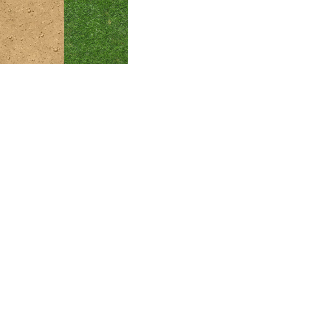
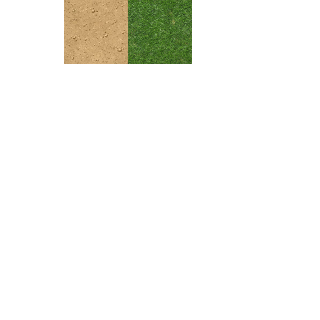
@pkg/isometric-renderer: pass tile map parameters using instanced VBOs instead overflowing Vec2 Uniforms

Changed region(s): [[0.0, 0.0, 0.625, 0.2188]]

diff --git a/src/packages/isometric-renderer/src/FGL/predefined/meshes/createTileTerrain.js b/src/packages/isometric-renderer/src/FGL/predefined/meshes/createTileTerrain.js
@@ -1,4 +1,5 @@
 import * as R from 'ramda';
+import {createVertexBuffer} from '../../buffer/types';
 
 export const createTexAtlasMaterial = fgl => fgl.material.shader(
   {
@@ -7,19 +8,22 @@ export const createTexAtlasMaterial = fgl => fgl.material.shader(
         in vec4 inVertexPos;
         in vec2 inUVPos;
 
+        // external VBOs
+        in vec2 inPosTileOffset;
+        in vec2 inUvTileOffset;
+
         // to frag shader
         out vec2 vUVPos;
-        flat out int vInstanceID;
+        out vec2 vUVOffset;
 
         uniform mat4 mpMatrix;
-        uniform vec2 posTileOffsets[100];
         uniform vec2 uvTileSize;
 
         void main() {
-          vec2 offset = uvTileSize * posTileOffsets[gl_InstanceID];
-          gl_Position = (inVertexPos + vec4(offset, 0, 0)) * mpMatrix;
+          vec2 offset = uvTileSize * inPosTileOffset;
 
-          vInstanceID = gl_InstanceID;
+          gl_Position = (inVertexPos + vec4(offset, 0, 0)) * mpMatrix;
+          vUVOffset = inUvTileOffset;
           vUVPos = inUVPos;
         }
       `,
@@ -27,17 +31,16 @@ export const createTexAtlasMaterial = fgl => fgl.material.shader(
       fragment: `
         out vec4 fragColor;
         in vec2 vUVPos;
-        flat in int vInstanceID;
+        in vec2 vUVOffset;
 
         // atlas texture
         uniform sampler2D tex0;
 
         // offsets
         uniform vec2 uvTileSize;
-        uniform vec2 uvTileOffsets[100];
 
         void main() {
-          fragColor = texture(tex0, vUVPos + (uvTileOffsets[vInstanceID] * uvTileSize));
+          fragColor = texture(tex0, vUVPos + (vUVOffset * uvTileSize));
         }
       `,
     },
@@ -59,6 +62,7 @@ export const createTexAtlasMaterial = fgl => fgl.material.shader(
  */
 const createTileTerrain = (fgl) => {
   const material = createTexAtlasMaterial(fgl);
+  const {gl} = fgl.state;
 
   return ({
     texTile,
@@ -78,20 +82,14 @@ const createTileTerrain = (fgl) => {
       [uvSize.w, 0.0],
     ];
 
-    const tileOffsets = R.compose(
-      R.unnest,
-      R.times(
-        index => ([
-          index % size.w,
-          Number.parseInt(index / size.w, 10),
-        ]),
-      ),
+    // used in instancing
+    const uvOffsets = R.pluck('uv')(items);
+    const tileOffsets = R.times(
+      index => ([
+        index % size.w,
+        Number.parseInt(index / size.w, 10),
+      ]),
     )(instances);
-
-    const uvOffsets = R.compose(
-      R.unnest,
-      R.pluck('uv'),
-    )(items);
 
     const mesh = fgl.mesh(
       {
@@ -100,23 +98,30 @@ const createTileTerrain = (fgl) => {
         textures: [
           texTile.texture, // tex0
         ],
+
+        // required mesh buffers
+        uv,
         vertices: R.map(
           R.append(0.0),
           uv,
         ),
-        uv,
+
+        // external attributes / unfiroms
+        buffers: {
+          inPosTileOffset: createVertexBuffer(gl, tileOffsets, gl.STATIC_DRAW, 2, 1),
+          inUvTileOffset: createVertexBuffer(gl, uvOffsets, gl.STATIC_DRAW, 2, 1),
+        },
         uniforms: {
           uvTileSize: [
             uvSize.w,
             uvSize.h,
           ],
-          'posTileOffsets[0]': tileOffsets,
-          'uvTileOffsets[0]': uvOffsets,
         },
       },
     );
 
     return (descriptor) => {
+      // todo: remove destructuring!
       mesh(
         {
           ...descriptor,

diff --git a/src/public/src/ui/GameCanvas.jsx b/src/public/src/ui/GameCanvas.jsx
@@ -25,14 +25,14 @@ const createTerrain = async (f) => {
       texTile,
       size: {
         w: 5,
-        h: 1,
+        h: 5,
       },
       items: [
-        {uv: [0, 0]},
-        {uv: [0, 0]},
-        {uv: [0, 0]},
-        {uv: [0, 0]},
-        {uv: [0, 0]},
+        {uv: [2, 0]}, {uv: [2, 0]}, {uv: [2, 0]}, {uv: [0, 0]}, {uv: [0, 0]},
+        {uv: [0, 0]}, {uv: [1, 0]}, {uv: [0, 0]}, {uv: [0, 0]}, {uv: [0, 0]},
+        {uv: [0, 0]}, {uv: [1, 0]}, {uv: [0, 0]}, {uv: [0, 0]}, {uv: [0, 0]},
+        {uv: [0, 0]}, {uv: [0, 0]}, {uv: [0, 0]}, {uv: [0, 0]}, {uv: [0, 0]},
+        {uv: [0, 0]}, {uv: [0, 0]}, {uv: [0, 0]}, {uv: [0, 0]}, {uv: [0, 0]},
       ],
     },
   );
@@ -71,7 +71,7 @@ const attachEngine = async (virtualResolution, dimensions, canvas) => {
           color: f.colors.DARK_GRAY,
           mpMatrix: mat4.mul(
             mpMatrix,
-            mat4.from.translation([0.0, 0.0, -0.005]),
+            mat4.from.translation([0.0, 0.0, 0.0]),
           ).array,
         },
       },
@@ -82,7 +82,7 @@ const attachEngine = async (virtualResolution, dimensions, canvas) => {
         uniforms: {
           mpMatrix: mat4.mul(
             mpMatrix,
-            mat4.from.translation([0.0, 0.0, -0.005]),
+            mat4.from.translation([0.0, 0.0, 0.0]),
           ).array,
         },
       },
@@ -96,7 +96,7 @@ const attachEngine = async (virtualResolution, dimensions, canvas) => {
             mpMatrix,
             mat4.mul(
               mat4.from.scaling([0.2, 0.2, 0.3]),
-              mat4.from.translation([2.0, 2.0, 0.0]),
+              mat4.from.translation([2.0, 2.0, -0.01]),
             ),
           ).array,
         },
@@ -111,7 +111,7 @@ const attachEngine = async (virtualResolution, dimensions, canvas) => {
             mpMatrix,
             mat4.mul(
               mat4.from.scaling([0.2, 0.2, 0.3]),
-              mat4.from.translation([3, 4, 0.0]),
+              mat4.from.translation([3, 4, -0.01]),
             ),
           ).array,
         },
@@ -128,7 +128,7 @@ const attachEngine = async (virtualResolution, dimensions, canvas) => {
             mpMatrix,
             mat4.mul(
               mat4.from.scaling([0.2, 0.2, 0.3]),
-              mat4.from.translation([3, 2, 0.0]),
+              mat4.from.translation([3, 2, -0.01]),
             ),
           ).array,
         },

diff --git a/src/packages/isometric-renderer/src/FGL/material/types/shader/createShaderMaterial.js b/src/packages/isometric-renderer/src/FGL/material/types/shader/createShaderMaterial.js
@@ -2,6 +2,7 @@ import * as R from 'ramda';
 
 import {TEX_UNIFORM} from '../../../constants/predefinedShaderParams';
 import createShaderMaterialDescriptor from './createShaderMaterialDescriptor';
+import bindBufferAttrib from '../../../buffer/bindBufferAttrib';
 
 /**
  * Maps uniform gl constant to setter
@@ -151,9 +152,28 @@ const createShaderMaterial = (gl, fgl) => {
       }
     };
 
+    /**
+     * Loads attributes object into mesh
+     *
+     * @param {Buffer} attributes
+     */
+    const setMaterialAttributes = (attributes) => {
+      for (const key in attributes) {
+        if (Object.prototype.hasOwnProperty.call(attributes, key)) {
+          const attributeDescription = material.attributes[key];
+          if (!attributeDescription)
+            continue;
+
+          bindBufferAttrib(gl, attributes[key], attributeDescription.loc);
+        }
+      }
+    };
+
     return {
       info: material,
       attach: attachMaterial,
+
+      setAttributes: setMaterialAttributes,
       setUniforms: setMaterialUniforms,
       setTextures: setMaterialTextures,
     };

diff --git a/src/packages/isometric-renderer/src/FGL/mesh/createMesh.js b/src/packages/isometric-renderer/src/FGL/mesh/createMesh.js
@@ -3,7 +3,7 @@ import {
   IN_VERTEX_POS_ATTRIB,
 } from '../constants/predefinedShaderParams';
 
-import attachShaderMaterialParameters from '../material/types/shader/attachShaderMaterialParameters';
+import attachShaderMaterialParameters from './utils/attachShaderMaterialParameters';
 import createMeshDescriptor from './createMeshDescriptor';
 import bindBufferAttrib from '../buffer/bindBufferAttrib';
 
@@ -11,7 +11,7 @@ import bindBufferAttrib from '../buffer/bindBufferAttrib';
  * Creates function that renders mesh based on config
  *
  * @param {WebGLRenderingContext} gl
- * @param {meshDescriptor} meshDescriptor
+ * @param {MeshDescriptor} meshDescriptor
  *
  * @param {Object} dynamicDescriptor
  *
@@ -19,11 +19,9 @@ import bindBufferAttrib from '../buffer/bindBufferAttrib';
  */
 const createMeshRenderer = (gl, meshDescriptor) => {
   const {
-    buffers: {
-      vbo,
-      ibo,
-      uv,
-    },
+    vbo,
+    ibo,
+    uv,
     material,
     renderMode,
   } = meshDescriptor;

diff --git a/src/packages/isometric-renderer/src/FGL/buffer/types/createVertexBuffer.js b/src/packages/isometric-renderer/src/FGL/buffer/types/createVertexBuffer.js
@@ -13,6 +13,7 @@ import createBuffer from '../createBuffer';
  * @param {Array} vertices
  * @param {GLEnum} usage
  * @param {Number} prefferedSingleVertexLength
+ * @param {Number} vertexAttribDivisor
  *
  * @returns {BufferDescriptor}
  */
@@ -21,6 +22,7 @@ const createVertexBuffer = (
   vertices,
   usage = gl.STATIC_DRAW,
   prefferedSingleVertexLength = null,
+  vertexAttribDivisor = null,
 ) => {
   if (!vertices || !vertices.length)
     throw new Error('createVertexBuffer: not vertices provided!');
@@ -37,6 +39,8 @@ const createVertexBuffer = (
   // create buffer
   const data = new Float32Array(R.unnest(vertices));
   return {
+    vertexAttribDivisor,
+
     // used to bind buffer
     // todo: add more basic buffer creator?
     components: {

diff --git a/src/packages/isometric-renderer/src/FGL/mesh/createMeshDescriptor.js b/src/packages/isometric-renderer/src/FGL/mesh/createMeshDescriptor.js
@@ -33,14 +33,12 @@ const createMeshDescriptor = gl => ({
     ...options,
     material,
     renderMode,
-    buffers: removeNullValues(
-      {
-        uv: uv && createVertexBuffer(gl, uv, usage, 2),
-        vbo: vertices && createVertexBuffer(gl, vertices, usage),
-        ibo: indices && createIndexBuffer(gl, indices, usage),
-        ...buffers,
-      },
-    ),
+
+    uv: uv && createVertexBuffer(gl, uv, usage, 2),
+    vbo: vertices && createVertexBuffer(gl, vertices, usage),
+    ibo: indices && createIndexBuffer(gl, indices, usage),
+
+    buffers: removeNullValues(buffers),
   },
 );
 

diff --git a/src/packages/isometric-renderer/src/FGL/index.js b/src/packages/isometric-renderer/src/FGL/index.js
@@ -87,14 +87,14 @@ const createRenderContext = (canvasElement, glContextFlags) => {
   // assign predefined meshes / materials
   R.forEachObjIndexed(
     (fn, meshName) => {
-      fgl.mesh[meshName] = fn(fgl);
+      fgl.mesh[meshName] = fn(fgl, gl);
     },
     meshes,
   );
 
   R.forEachObjIndexed(
     (fn, materialName) => {
-      fgl.material[materialName] = fn(fgl);
+      fgl.material[materialName] = fn(fgl, gl);
     },
     materials,
   );

diff --git a/src/packages/isometric-renderer/src/FGL/mesh/createMeshBatch.js b/src/packages/isometric-renderer/src/FGL/mesh/createMeshBatch.js
@@ -1,4 +1,4 @@
-import attachShaderMaterialParameters from '../material/types/shader/attachShaderMaterialParameters';
+import attachShaderMaterialParameters from './utils/attachShaderMaterialParameters';
 
 /**
  * Reduces bindBuffer() calls rate to mesh()

diff --git a/src/packages/isometric-renderer/src/FGL/mesh/utils/attachShaderMaterialParameters.js b/src/packages/isometric-renderer/src/FGL/mesh/utils/attachShaderMaterialParameters.js
@@ -13,8 +13,12 @@ const attachShaderMaterialParameters = (
   {
     uniforms,
     textures,
+    buffers,
   },
 ) => {
+  if (buffers)
+    material.setAttributes(buffers);
+
   if (uniforms)
     material.setUniforms(uniforms);
 

diff --git a/src/packages/isometric-renderer/src/FGL/material/types/shader/createShaderMaterialDescriptor.js b/src/packages/isometric-renderer/src/FGL/material/types/shader/createShaderMaterialDescriptor.js
@@ -5,7 +5,7 @@ import {
 
   pickProgramUniforms,
   pickProgramAttributes,
-} from '../../shader';
+} from './utils';
 
 /**
  * Assign to each object selector specified in selectors object

diff --git a/.eslintrc.js b/.eslintrc.js
@@ -46,6 +46,7 @@ module.exports = {
     'no-continue': 0,
     'no-param-reassign': 0,
     'no-bitwise': 0,
+    'guard-for-in': 0,
   },
   settings: {
     'import/resolver': {
